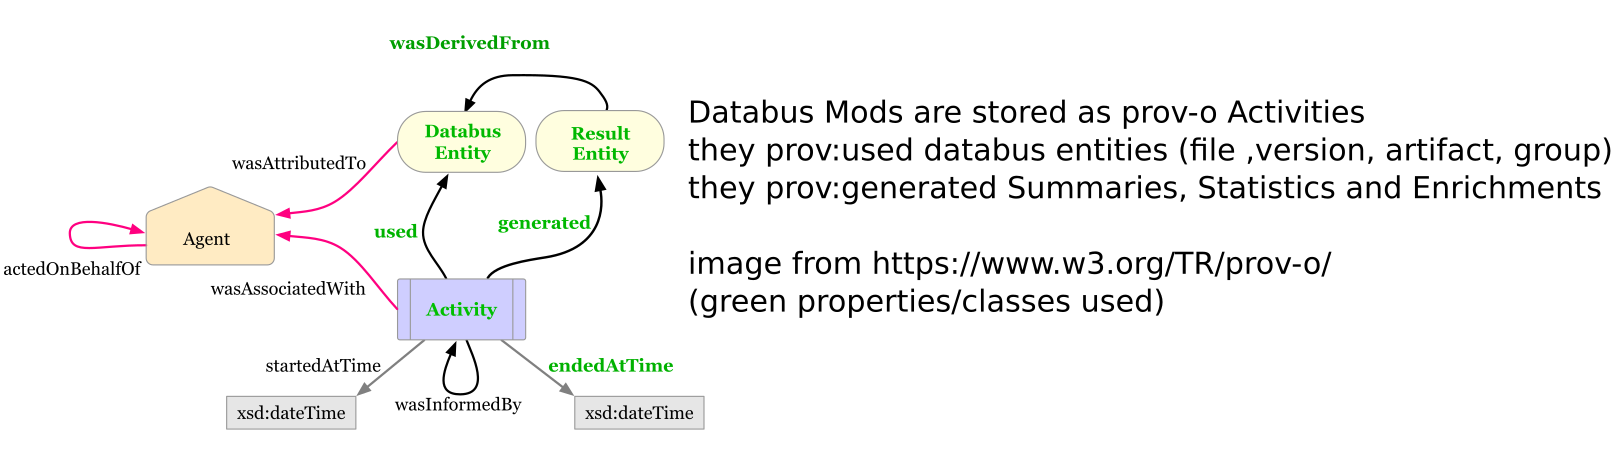
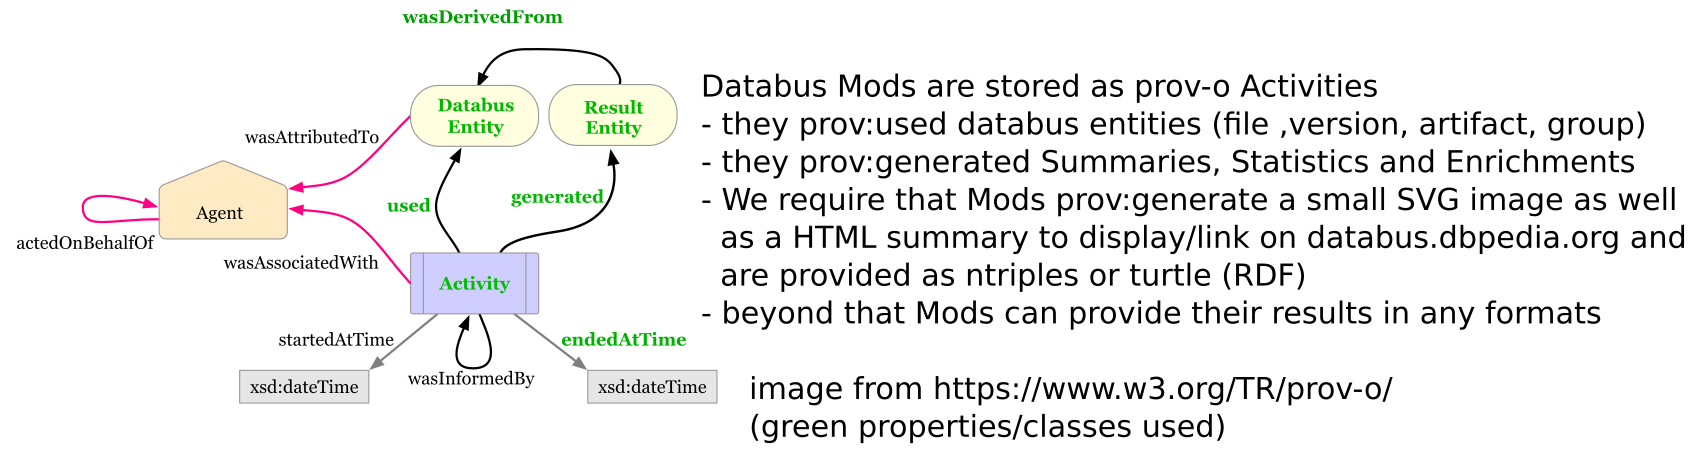
update docu

Changed region(s): [[0.0, 0.1217, 1.0, 0.9739], [0.4002, 0.487, 1.0, 0.7304], [0.2155, 0.0, 0.3387, 0.1217]]

diff --git a/README.md b/README.md
@@ -1,17 +1,19 @@
 # databus-mods
-Prototype for Databus Mods (Ontology and Process)
+Prototype for Databus Mods (incl/ Ontology and Process)
 Contains a working mod to check whether all download links are working
 
 ## Motivation
-Data providers on the bus publish their files with a core set of metadata descriptions like where to download them, filesize in short the DataId.
-Mods are Activities analysing the files or the metadata and provide usefull Stats, Enrichment and Ratings or visuals such as this SVG:  [![Build Status](http://88.99.242.78/online/repo/dbpedia/mappings/geo-coordinates-mappingbased/2018.12.01/978e5a0884ccbefbedb2c699d385247fd52d5968e013cd7f0dbec98124eb64b3.svg)](http://88.99.242.78/online/repo/dbpedia/mappings/geo-coordinates-mappingbased/2018.12.01/978e5a0884ccbefbedb2c699d385247fd52d5968e013cd7f0dbec98124eb64b3.ttl)
+Data providers on the bus publish their files with a core set of metadata descriptions like where to download them, filesize, license all captured in the dataid.ttl which are crawled and hosted in the [Databus SPARQL API](https://databus.dbpedia.org/yasgui/) .
+Mods are activities analysing the files or the DataId metadata on the Databus and provide usefull Stats, Enrichment and Ratings or visuals such as this SVG:  [![Build Status](http://88.99.242.78/online/repo/dbpedia/mappings/geo-coordinates-mappingbased/2018.12.01/978e5a0884ccbefbedb2c699d385247fd52d5968e013cd7f0dbec98124eb64b3.svg)](http://88.99.242.78/online/repo/dbpedia/mappings/geo-coordinates-mappingbased/2018.12.01/978e5a0884ccbefbedb2c699d385247fd52d5968e013cd7f0dbec98124eb64b3.html) 
+Mods allow any user to customize and extend the DBpedia Databus website with their own code. 
+Mods can spot errors in data, provide fixes and patches or simply count rdf:type statements or words.
 
- 
 ## Databus Mods
-We allow third-parties to add further descriptions in the following manner.
+We allow third-parties to add further descriptions in the following manner:
+
 
 ### Getting updates
-Mods can query and download relevant metadata (e.g. daily) via https://databus.dbpedia.org/repo/sparql 
+Mods need to query and download relevant metadata (e.g. daily) via https://databus.dbpedia.org/repo/sparql 
 Some examples:
 
 ```
@@ -40,7 +42,8 @@ curl -d "format=text%2Ftab-separated-values" \
 ![Prov-O relation to Mod](https://github.com/dbpedia/databus-mods/raw/master/provo_databus-modrelation.png)
 
 
-Here is an example description of the online-checker
+Here is an example description of the online-checker taken from:
+http://88.99.242.78/online/repo/dbpedia/mappings/mappingbased-literals/2018.12.01/28bf5ba354072b99bca31e59294755a0dbfa392566044943b2e881a5a9370a73.ttl#this
 
 ```
 @prefix mymod: <http://88.99.242.78/online/repo/dbpedia/mappings/mappingbased-literals/2018.12.01/> .
@@ -53,45 +56,72 @@ Here is an example description of the online-checker
 mymod:28bf5ba354072b99bca31e59294755a0dbfa392566044943b2e881a5a9370a73.svg
     mod:svgDerivedFrom <https://databus.dbpedia.org/dbpedia/mappings/mappingbased-literals/2018.12.01/mappingbased-literals_lang=ro.ttl.bz2> .
 
-mymod:28bf5ba354072b99bca31e59294755a0dbfa392566044943b2e881a5a9370a73.tsv
-    mod:statisticsDerivedFrom <https://databus.dbpedia.org/dbpedia/mappings/mappingbased-literals/2018.12.01/mappingbased-literals_lang=ro.ttl.bz2> .
+mymod:28bf5ba354072b99bca31e59294755a0dbfa392566044943b2e881a5a9370a73.html
+    mod:htmlDerivedFrom <https://databus.dbpedia.org/dbpedia/mappings/mappingbased-literals/2018.12.01/mappingbased-literals_lang=ro.ttl.bz2> .
 
 mymod:28bf5ba354072b99bca31e59294755a0dbfa392566044943b2e881a5a9370a73.ttl#this
     mymodvocab:onlinerate "1.0"^^xsd:float ;
     a mymodvocab:OnlineTestMod ;
     prov:endedAtTime "2019-08-20T21:35:11.931+02:00[Europe/Berlin]"^^xsd:dateTime ;
-    prov:generated mymod:28bf5ba354072b99bca31e59294755a0dbfa392566044943b2e881a5a9370a73.svg, mymod:28bf5ba354072b99bca31e59294755a0dbfa392566044943b2e881a5a9370a73.tsv .
+    prov:generated mymod:28bf5ba354072b99bca31e59294755a0dbfa392566044943b2e881a5a9370a73.svg, mymod:28bf5ba354072b99bca31e59294755a0dbfa392566044943b2e881a5a9370a73.html .
 ```
+and an example of the modvocab:
+http://88.99.242.78/online/repo/modvocab.ttl
 
 ## Databus SPARQL API
-We will load the above description of your mode into https://databus.dbpedia.org/repo/sparql .
+We will load the above descriptions of your mod into https://databus.dbpedia.org/repo/sparql .
+Therefore we require:
+1. the link to the modvocab.ttl 
+2. the link to an aggregation, which we should load
+See the example here: http://88.99.242.78/online/repo/ 
 
-### Requirements:
-* We expect this to be 5-10 triples per record linking to much more data, visualisations and detailed reports.
-* Please look at the [mod.ttl](mod.ttl) and use subproperties of `prov:wasDerivedFrom` and 
+### Limits
+As of Aug, 2019 Databus has 20k files. Each activity produces at least 7 triples. Each additional report 2 triples. Which is 140k triples per mod minimum. We therefore expect mods to only generate maximum of two additional result entities next to the svg and html. Further reports can be linked from the HTML reports.     
 
-Example query:
+
+### Example queries:
 
 ```
+# query all files and their mod results for dbpedia/mappings/mappingbased-literals/2018.12.01
+
+
 PREFIX rdfs: <http://www.w3.org/2000/01/rdf-schema#>
 PREFIX prov: <http://www.w3.org/ns/prov#>
 PREFIX dataid: <http://dataid.dbpedia.org/ns/core#>
+PREFIX dataiddebug: <http://dataid.dbpedia.org/ns/debug.ttl#>
 PREFIX dcat:   <http://www.w3.org/ns/dcat#>
 
-SELECT ?file ?property ?result WHERE {
-  ?s dataid:file ?file . 
-  ?property rdfs:subPropertyOf prov:wasDerivedFrom . 
-  ?result ?property ?file .
-  # optionally getting the mod
+# group_concat see: https://stackoverflow.com/questions/18212697/aggregating-results-from-sparql-query
+SELECT ?file (group_concat(?result;separator=",") as ?results)  WHERE {
+  ?dataset dataid:version <https://databus.dbpedia.org/dbpedia/mappings/mappingbased-literals/2018.12.01> .
+  ?singlefile dataid:isDistributionOf ?dataset .
+  ?singlefile dataid:file ?file .
+  
+  #?property rdfs:subPropertyOf prov:wasDerivedFrom . 
+  #?result ?property ?file .
+  ?resultsvg <http://dataid.dbpedia.org/ns/mod.ttl#svgDerivedFrom> ?file .
+  # UPDATE statistics -> htmlDerivedFrom
+  ?resultstat <http://dataid.dbpedia.org/ns/mod.ttl#htmlDerivedFrom> ?file .
+  # from the same activity on the same file
+  ?activity prov:generated ?resultsvg .
+  ?activity prov:generated ?resultstat .
+  # UPDATE added line below
+  ?activity prov:used ?file .
+  
+  # transform to image link
+  # <img src="smiley.gif" alt="Smiley face" height="42" width="42"> 
+  BIND (concat("<a href=\"",?resultstat, "\"> <img src=\"",?resultsvg,"\"></a>" ) AS ?result )
+  # optionally getting label of the mod
   # ?activity prov:generated ?result .
   # ?activity a ?mod .
-    
+     
 } 
+Group by ?file 
 
 ```
 
 
-## URLs of the Mod (draft, not binding)
+## URLs of the Mod (just an example)
 For activities (one analysis process): 
 
 * http://myservice.org/$servicename/repo/$account/$group/$artifact/$version/$sha256sum.ttl
@@ -140,8 +170,9 @@ mvn scala:run -DmainClass="check_if_online" -DaddArgs="/var/www/html/online/repo
 
 Read more about the mod in the modvocab.ttl: http://88.99.242.78/online/repo/modvocab.ttl
 
-#### TSV Online Stats
-The script is intended as a cronjob and checks whether all downloadURLs are reachable via HEAD requests and saves (append) the stats in $sha256sum.tsv files:
+#### HTML Online Stats
+The script is intended as a cronjob and checks whether all downloadURLs are reachable via HEAD requests and saves (append) the stats in $sha256sum.html files:
+http://88.99.242.78/online/repo/dbpedia/mappings/mappingbased-literals/2018.12.01/28bf5ba354072b99bca31e59294755a0dbfa392566044943b2e881a5a9370a73.html
 ```
 timestamp	success		downloadurl
 ```
@@ -149,5 +180,5 @@ timestamp	success		downloadurl
 #### SVG
 We used an existing template and replace color and text:
 
- [![Build Status](http://88.99.242.78/online/repo/dbpedia/mappings/geo-coordinates-mappingbased/2018.12.01/978e5a0884ccbefbedb2c699d385247fd52d5968e013cd7f0dbec98124eb64b3.svg)](http://88.99.242.78/online/repo/dbpedia/mappings/geo-coordinates-mappingbased/2018.12.01/978e5a0884ccbefbedb2c699d385247fd52d5968e013cd7f0dbec98124eb64b3.jsonld)
+ [![Build Status](http://88.99.242.78/online/repo/dbpedia/mappings/geo-coordinates-mappingbased/2018.12.01/978e5a0884ccbefbedb2c699d385247fd52d5968e013cd7f0dbec98124eb64b3.svg)](http://88.99.242.78/online/repo/dbpedia/mappings/geo-coordinates-mappingbased/2018.12.01/978e5a0884ccbefbedb2c699d385247fd52d5968e013cd7f0dbec98124eb64b3.html)
 
